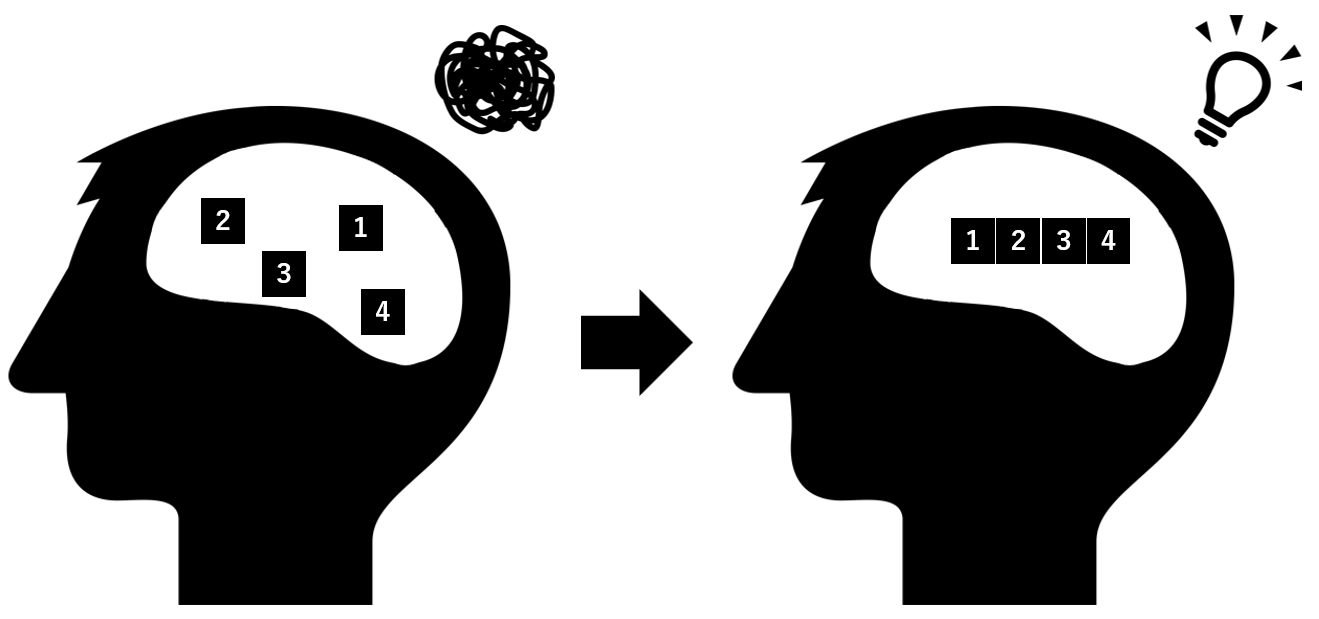
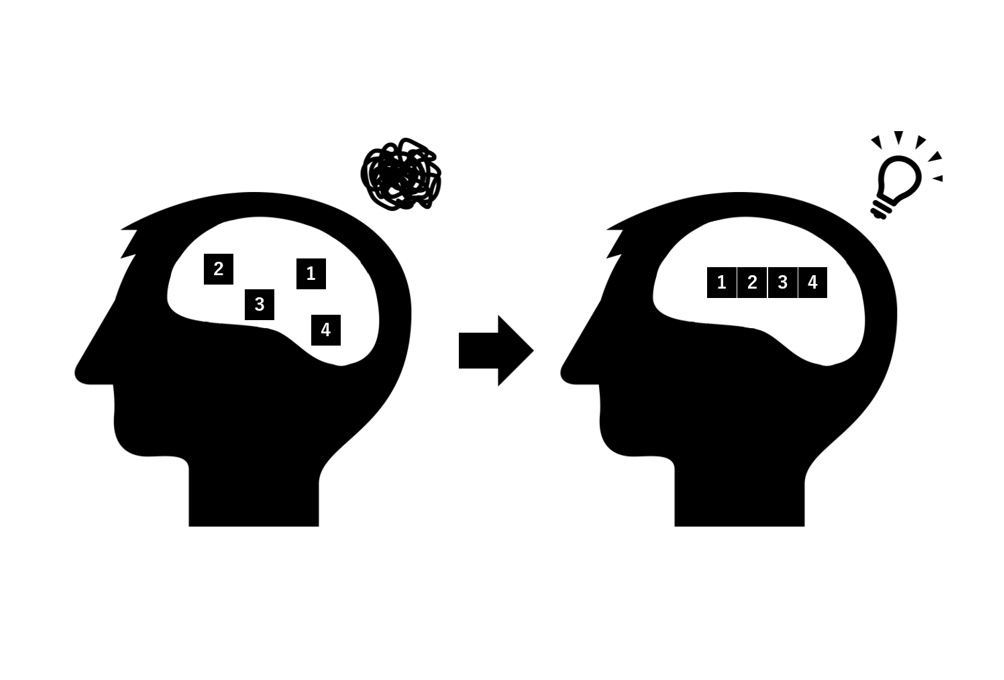
fix:ogp

Changed region(s): [[0.0, 0.0307, 0.5249, 0.9822], [0.5558, 0.0307, 0.988, 0.9822], [0.3088, 0.6139, 0.3705, 0.7674]]

diff --git a/src/app/layout.tsx b/src/app/layout.tsx
@@ -4,22 +4,32 @@ import Header from './components/Header'
 import Main from './components/Main'
 import UiProvider from './ChakraUiSettings/UiProvider'
 import type { Metadata } from 'next'
-
+const title = 'SORT out THOUGHTs! demo'
+const description = '考えや悩みを整理します。demo版'
 export const metadata: Metadata = {
-  title: 'SORT out THOUGHTs demo',
-  description: '考えや悩みを整理します。demo版',
+  title,
+  description,
   authors: [{ name: 'suzuken' }],
   openGraph: {
-    title: 'SORT out THOUGHTs img',
-    description: 'description',
-    //url: url,
-    siteName: 'SORT out THOUGHTs!',
+    title,
+    description,
+    url: 'https://sort-out-thoughts-webapp.vercel.app/',
+    siteName: title,
     images: {
       url: '/opengraph-image.png',
-      width: 1200,
-      height: 600,
+      width: 1000,
+      height: 700,
     },
-  }
+    locale: 'ja_JP',
+    type: 'website',
+  },
+  twitter: {
+    card: 'summary_large_image',
+    title,
+    description,
+    site: '@suzuken_s',
+    creator: '@suzuken_s',
+  },
 }
 
 export default function RootLayout({
